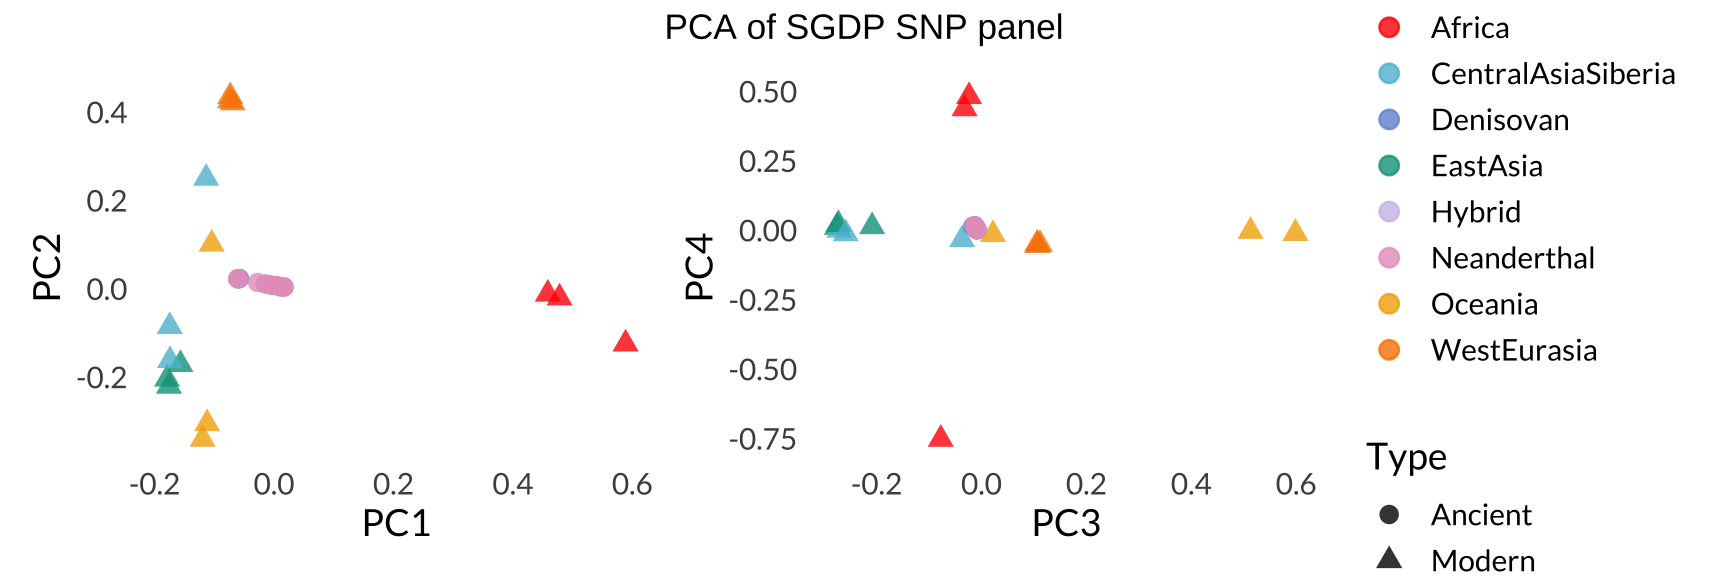
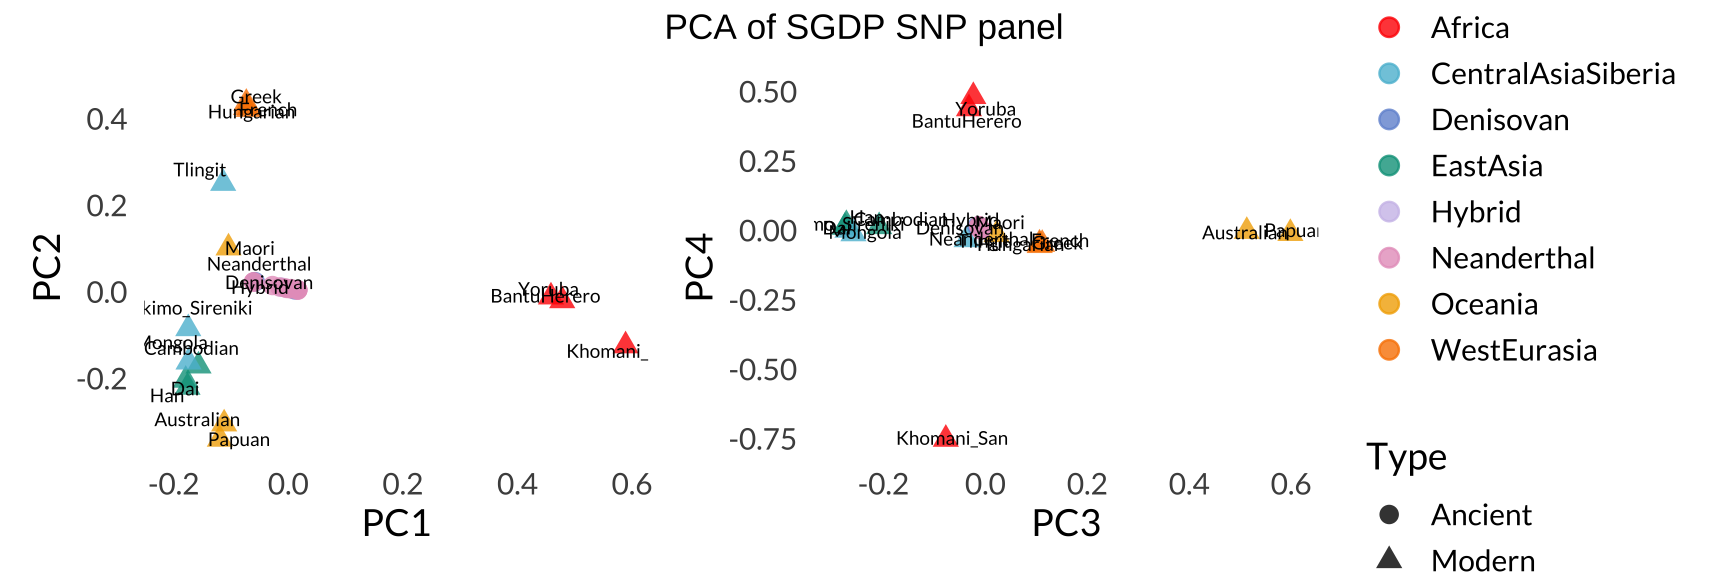
Build site.

diff --git a/docs/pca.html b/docs/pca.html
@@ -526,15 +526,15 @@ project makes it easier to run your code on other machines.</p>
 <div class="panel panel-default">
 <div class="panel-heading">
 <p class="panel-title">
-<a data-toggle="collapse" data-parent="#workflowr-checks" href="#strongRepositoryversionstrongahrefhttpsgithubcomlilyhealdPAINTtree12b4fd27fdb789f4fc1bdc29db50b06e727872fbtargetblank12b4fd2a">
+<a data-toggle="collapse" data-parent="#workflowr-checks" href="#strongRepositoryversionstrongahrefhttpsgithubcomlilyhealdPAINTtreee4137296d3122515c00e1d9b43a441ea9e41cdc6targetblanke413729a">
 <span class="glyphicon glyphicon-ok text-success"
 aria-hidden="true"></span> <strong>Repository version:</strong>
-<a href="https://github.com/lilyheald/PAINT/tree/12b4fd27fdb789f4fc1bdc29db50b06e727872fb" target="_blank">12b4fd2</a>
+<a href="https://github.com/lilyheald/PAINT/tree/e4137296d3122515c00e1d9b43a441ea9e41cdc6" target="_blank">e413729</a>
 </a>
 </p>
 </div>
 <div
[2 lines of base64/hex data omitted]
 class="panel-collapse collapse">
 <div class="panel-body">
 <p>
@@ -544,7 +544,7 @@ reproducibility.
 </p>
 <p>
 The results in this page were generated with repository version
-<a href="https://github.com/lilyheald/PAINT/tree/12b4fd27fdb789f4fc1bdc29db50b06e727872fb" target="_blank">12b4fd2</a>.
+<a href="https://github.com/lilyheald/PAINT/tree/e4137296d3122515c00e1d9b43a441ea9e41cdc6" target="_blank">e413729</a>.
 See the <em>Past versions</em> tab to see a history of the changes made
 to the R Markdown and HTML files.
 </p>
@@ -682,6 +682,40 @@ Message
 </tr>
 </thead>
 <tbody>
+<tr>
+<td>
+Rmd
+</td>
+<td>
+<a href="https://github.com/lilyheald/PAINT/blob/e4137296d3122515c00e1d9b43a441ea9e41cdc6/analysis/pca.Rmd" target="_blank">e413729</a>
+</td>
+<td>
+Lily Heald
+</td>
+<td>
+2026-04-14
+</td>
+<td>
+Label points on PCA
+</td>
+</tr>
+<tr>
+<td>
+html
+</td>
+<td>
+<a href="https://rawcdn.githack.com/lilyheald/PAINT/f3e6c69a88acdd29a36904733d19e2a608e728d3/docs/pca.html" target="_blank">f3e6c69</a>
+</td>
+<td>
+Lily Heald
+</td>
+<td>
+2026-04-14
+</td>
+<td>
+Build site.
+</td>
+</tr>
 <tr>
 <td>
 Rmd
@@ -1209,6 +1243,17 @@ Date
 <tbody>
 <tr>
 <td>
+<a href="https://github.com/lilyheald/PAINT/blob/f3e6c69a88acdd29a36904733d19e2a608e728d3/docs/figure/pca.Rmd/plot-1.png" target="_blank">f3e6c69</a>
+</td>
+<td>
+Lily Heald
+</td>
+<td>
+2026-04-14
+</td>
+</tr>
+<tr>
+<td>
 <a href="https://github.com/lilyheald/PAINT/blob/df13e39632ea073ab33e9b2089bca41e5f804165/docs/figure/pca.Rmd/plot-1.png" target="_blank">df13e39</a>
 </td>
 <td>
@@ -1347,6 +1392,17 @@ Date
 </tr>
 </thead>
 <tbody>
+<tr>
+<td>
+<a href="https://github.com/lilyheald/PAINT/blob/f3e6c69a88acdd29a36904733d19e2a608e728d3/docs/figure/pca.Rmd/plot2-1.png" target="_blank">f3e6c69</a>
+</td>
+<td>
+Lily Heald
+</td>
+<td>
+2026-04-14
+</td>
+</tr>
 <tr>
 <td>
 <a href="https://github.com/lilyheald/PAINT/blob/df13e39632ea073ab33e9b2089bca41e5f804165/docs/figure/pca.Rmd/plot2-1.png" target="_blank">df13e39</a>
